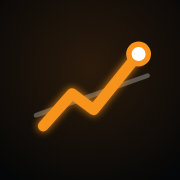
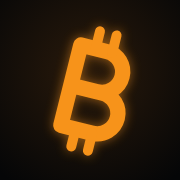
Icono de la app: B de Bitcoin en naranja
Sustituye el icono de la línea de tendencia por la ₿ naranja inclinada sobre fondo oscuro.
Se sube V del service worker (t200-v3) para refrescar la caché y se documenta en
NOTAS_TECNICAS.md, con el aviso de que iOS guarda el icono al instalar la app.

Claude-Session: https://claude.ai/code/session_01N69f5PXLWwYGGT5wFPfWrz

Changed region(s): [[0.1667, 0.1389, 0.8611, 0.8889]]

diff --git a/sw.js b/sw.js
@@ -1,7 +1,7 @@
 // Service worker de Trend 200: la app abre sin conexión (stale-while-revalidate del propio sitio).
 // Las llamadas a Binance NO se cachean: pasan directas a la red.
 // Al cambiar index.html, sube V para forzar la limpieza de la caché antigua.
-const V = 't200-v2';
+const V = 't200-v3';
 const FILES = ['./', 'index.html', 'manifest.json', 'icon-180.png', 'icon-192.png', 'icon-512.png'];
 
 self.addEventListener('install', e => {

diff --git a/NOTAS_TECNICAS.md b/NOTAS_TECNICAS.md
@@ -7,6 +7,8 @@ Muestra si el indicador está DENTRO o FUERA, qué hacer en cada señal, el tama
 ## 1. Arquitectura
 - `index.html` único y autocontenido: HTML + CSS + JS vanilla. Sin build, sin dependencias, sin CDN ni fuentes externas.
 - `manifest.json`, `icon-180/192/512.png`: instalable en la pantalla de inicio (iOS: Compartir → Añadir a pantalla de inicio).
+  Icono: ₿ naranja (`#F7931A`, inclinada 14° como el logo) sobre fondo oscuro con brillo, dibujada en SVG y exportada a PNG a sangre (iOS aplica la máscara).
+  Si se cambia, subir `V` en `sw.js` y, en iOS, borrar y volver a añadir la app (iOS guarda el icono al instalarla).
 - `sw.js`: service worker, la app abre sin conexión. Estrategia *stale-while-revalidate* solo para el propio sitio;
   las llamadas a Binance no se cachean. **Al cambiar `index.html`, subir `V` en `sw.js`.**
 - Estilo copiado del sistema de SOLO GASTOS (tokens, tarjetas de cristal, dock con burbuja, hojas, animación de confirmación),
